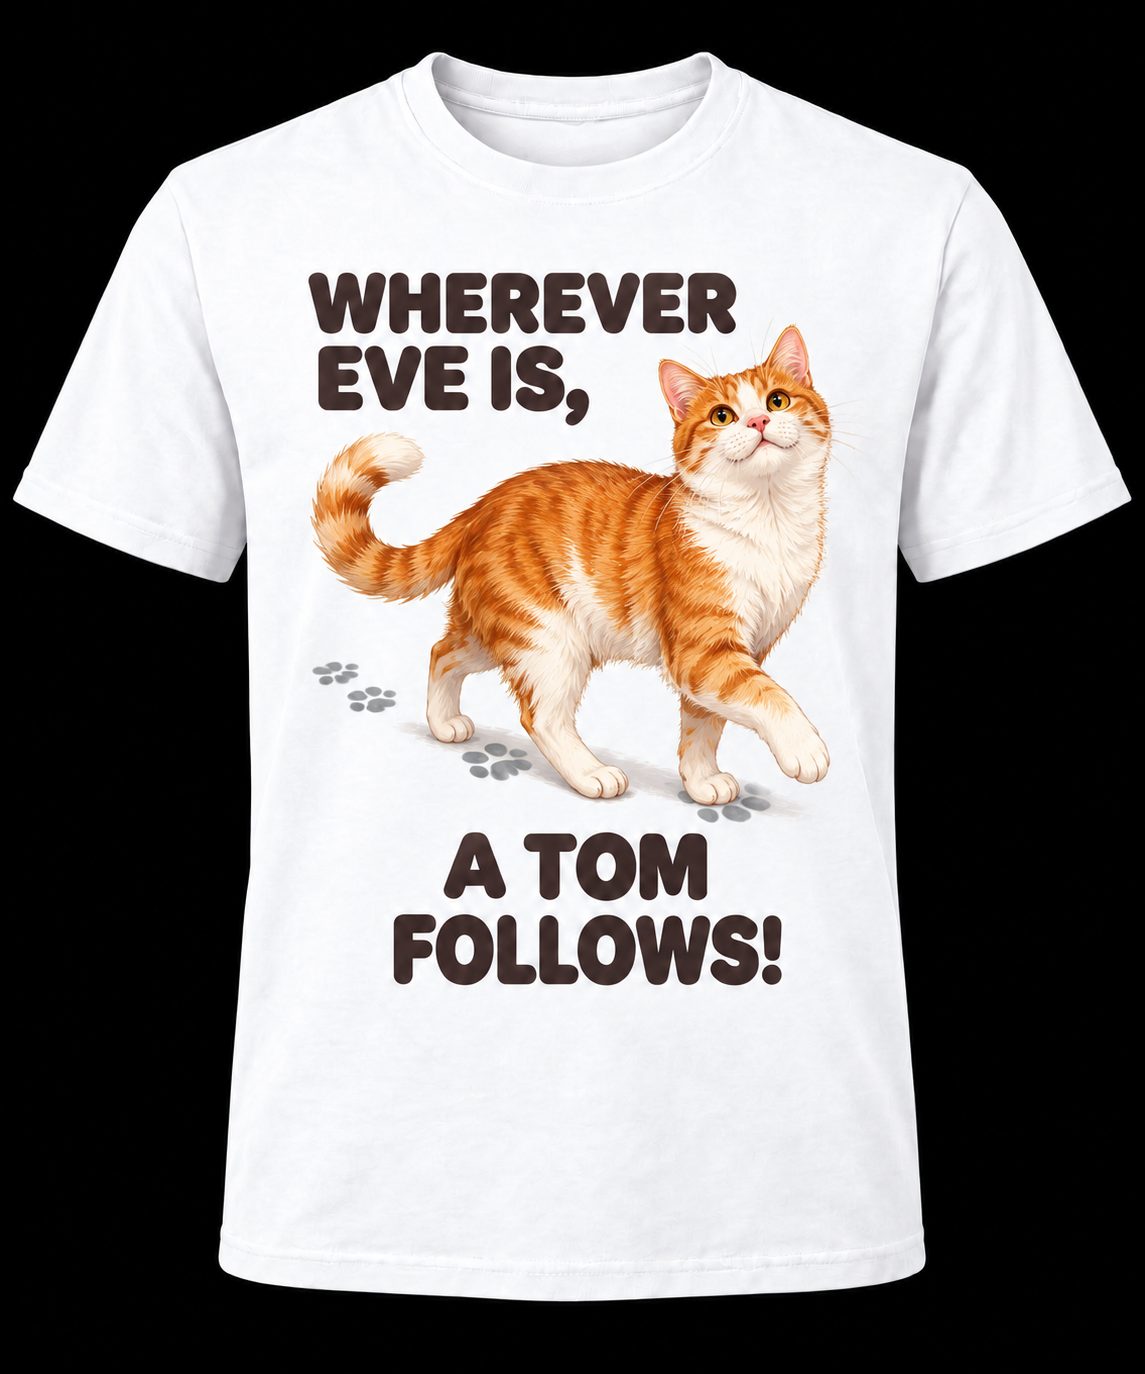
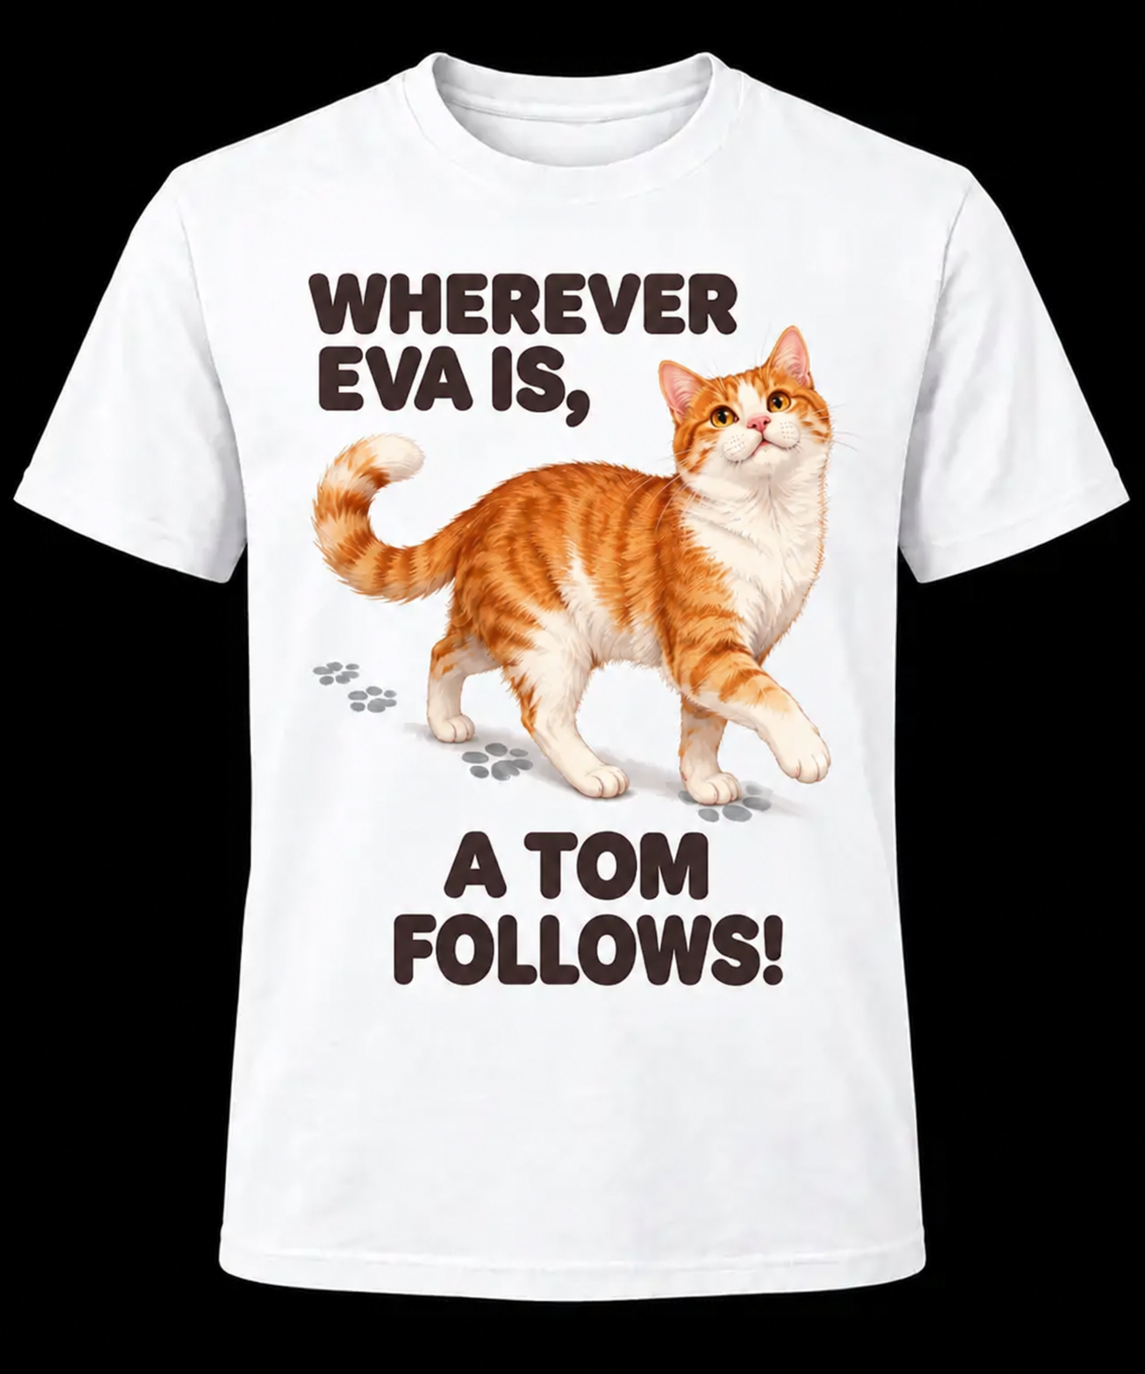
Change Fashion and Finery cat tee name to Eva

diff --git a/components/site/pages/fashion.tsx b/components/site/pages/fashion.tsx
@@ -53,7 +53,7 @@ export default function FashionContent({ embedded = false }: { embedded?: boolea
                   width={1145}
                   height={1374}
                   sizes="(max-width: 800px) 50vw, (max-width: 1200px) 27vw, 340px"
-                  alt="Premium white T-shirt featuring a ginger cat and Wherever Eve Is, A Tom Follows lettering"
+                  alt="Premium white T-shirt featuring a ginger cat and Wherever Eva Is, A Tom Follows lettering"
                 />
               </div>
             </figure>
